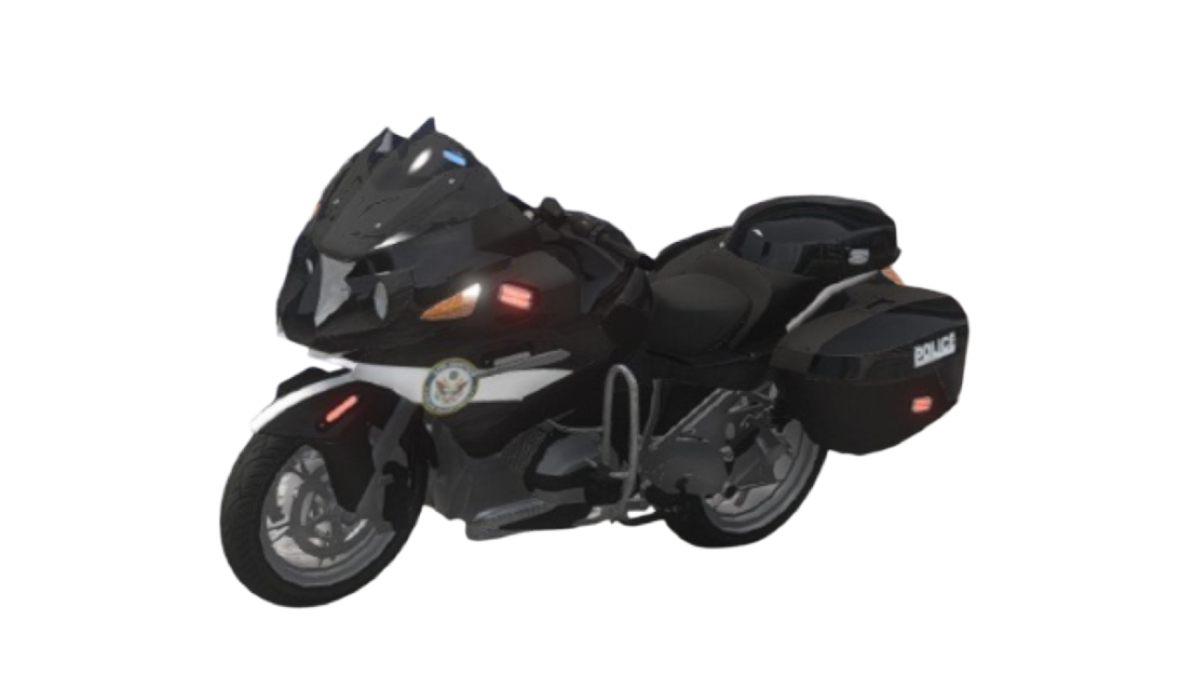
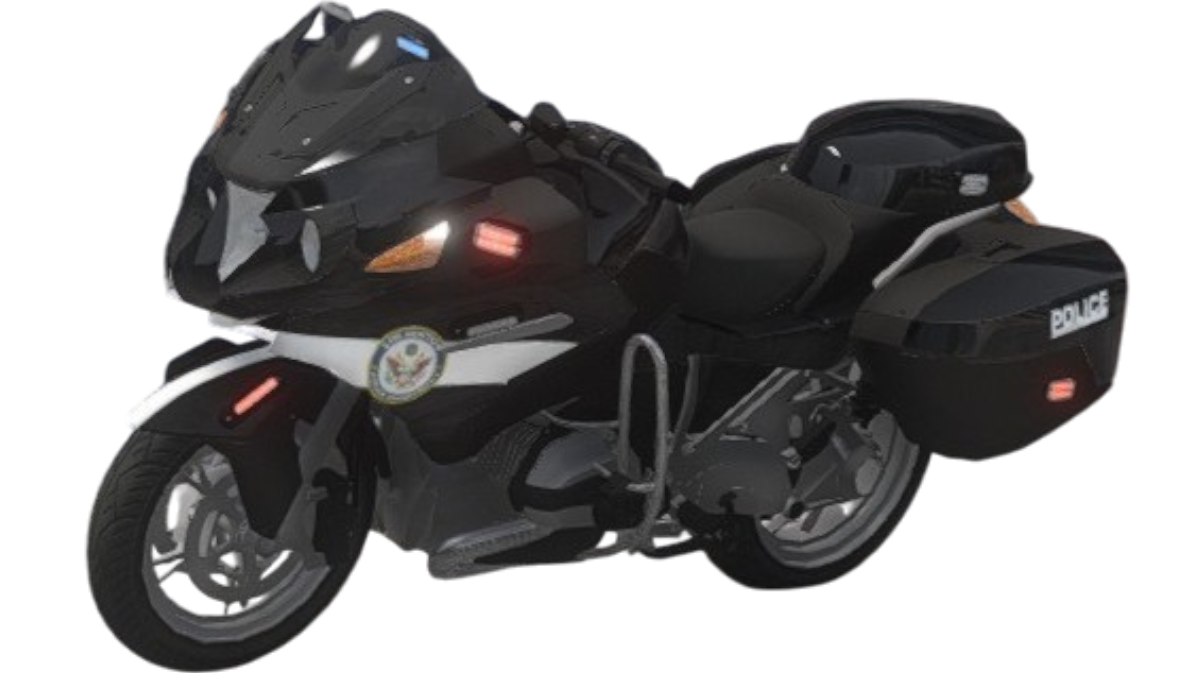
update lspd

diff --git a/index.html b/index.html
@@ -896,6 +896,40 @@
             </div>
           </div>
           <div class="deals__card">
+            <img src="assets/mbu1flagrb.png" alt="deals" />
+            <div class="deals__rating">
+              <span><i class="ri-star-fill"></i></span>
+              <span><i class="ri-star-fill"></i></span>
+              <span><i class="ri-star-fill"></i></span>
+              <span><i class="ri-star-fill"></i></span>
+              <span><i class="ri-star-fill"></i></span>
+              <span>(266)</span>
+            </div>
+            <h4>Moto (LSPD)</h4>
+            <div class="deals__card__grid">
+              <div>
+                <span><i class="ri-group-line"></i></span> 0 Propriétaire
+              </div>
+              <div>
+                <span><i class="ri-steering-2-line"></i></span> Automatique
+              </div>
+              <div>
+                <span><i class="ri-speed-up-line"></i></span> 20km
+              </div>
+              <div>
+                <span><i class="ri-car-line"></i></span> Diesel
+              </div>
+            </div>
+            <hr />
+            <div class="deals__card__footer">
+              <h3>$32 000<span>/Prix affiché</span></h3>
+              <a href="https://discord.gg/C6twFQeEf6">
+                Acheter
+                <span><i class="ri-arrow-right-line"></i></span>
+              </a>
+            </div>
+          </div>
+          <div class="deals__card">
             <img src="assets/pbike.png" alt="deals" />
             <div class="deals__rating">
               <span><i class="ri-star-fill"></i></span>
